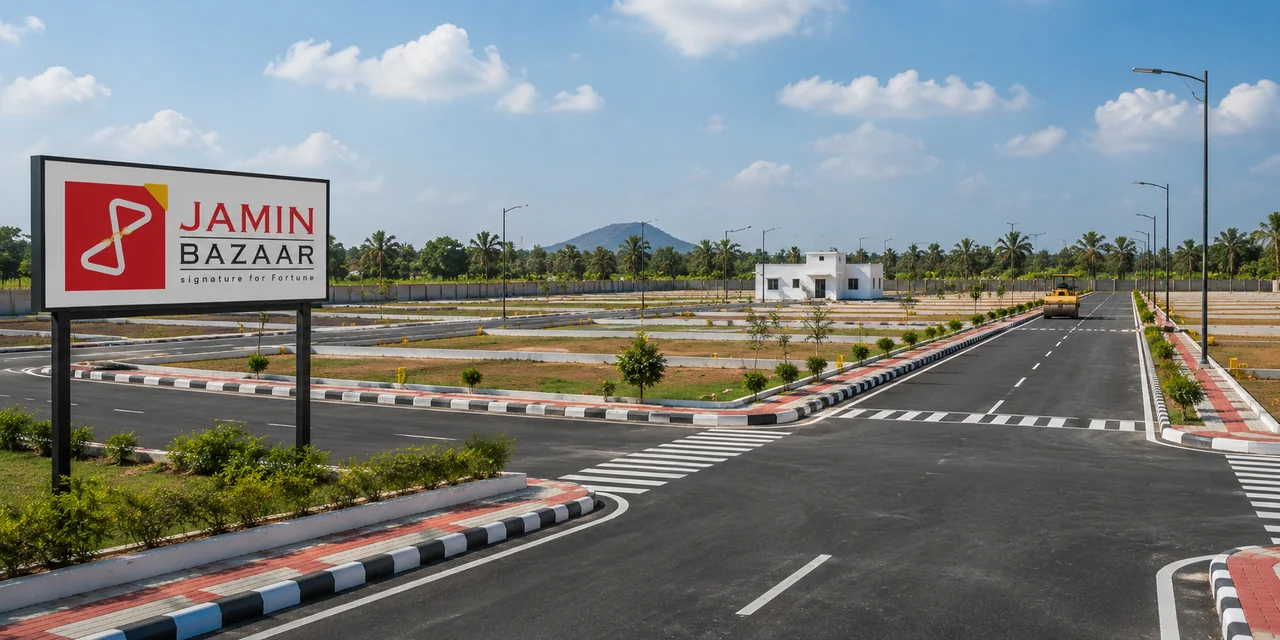
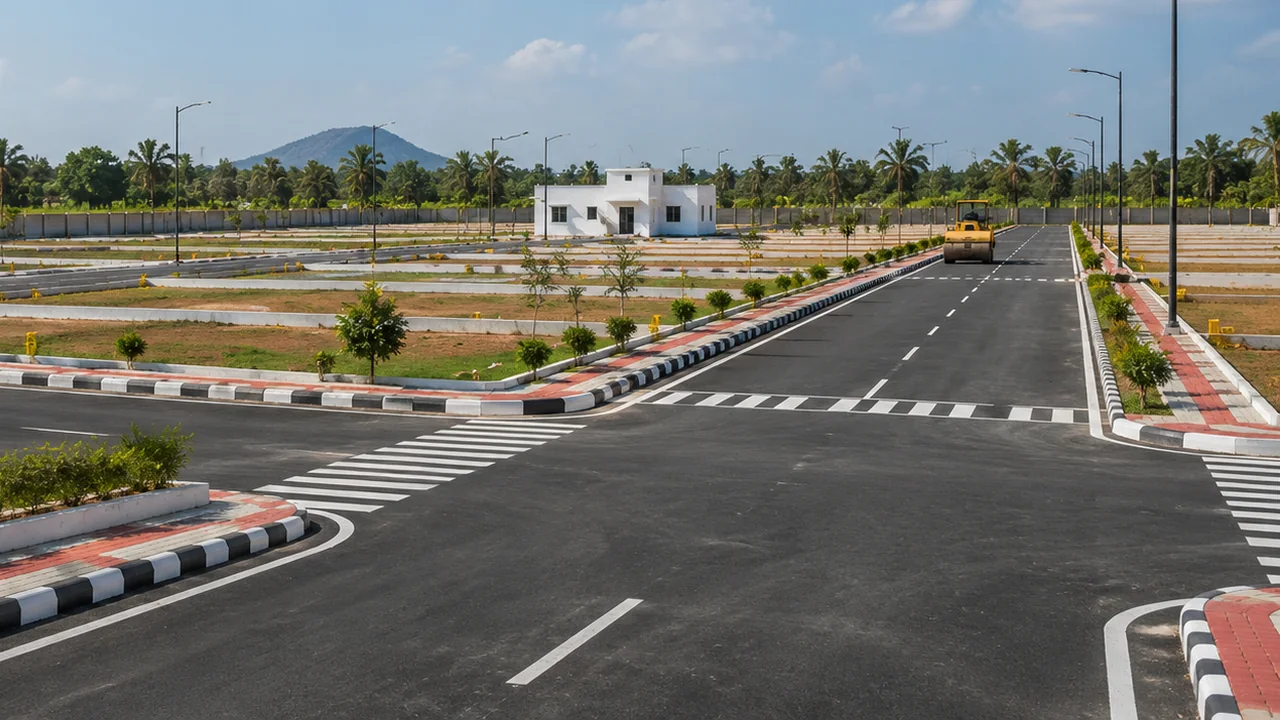
Trim hero-31's board — the sheer plate had been hiding it
Making the copy plate see-through exposed a defect the opaque plate had been
covering: hero-31's JAMIN BAZAAR board ghosted straight through the headline,
"AMIN BAZAAR" reading across "Ongoing Jamin". Nothing about the picture changed
— a plate stopped concealing it.

hero-31 is now cut at source x 526 and re-squared to 16/9 (1248x702, exported
768 / 1280), the same treatment hero-33 already had. Its board measures out to
x 498, NOT the 470 first recorded, so a cut at hero-33's 494 would have left a
4px seam — measured this time rather than eyeballed.

Two rules recorded on the phase page and in hero/README.md:

  - If a board sits more than ~400px into a 1774-wide frame, artPosition alone
    cannot remove it. Trim the source.
  - A plate that HIDES something is not the same as a frame that is CLEAN.
    Before lowering any plate's alpha, look at what that plate was covering —
    anything relying on plate opacity to conceal artwork breaks the day the
    plate goes transparent.

diff --git a/src/app/projects/[phase]/page.tsx b/src/app/projects/[phase]/page.tsx
@@ -93,24 +93,32 @@ export default async function PhasePage({ params }: PageProps<"/projects/[phase]
    * at a negative offset. There is no `artPosition` value that both keeps the
    * board and leaves it solid.
    *
-   * ⚠ hero-33 IS TRIMMED, and the reason is worth keeping because the first
-   * attempt was wrong. Its board sits further into the frame (source x 267–484
-   * rather than 45–470), and the crop window is only 1366px wide, so even a
-   * full right anchor starts at x 409 — always short of 484. A 75px sliver of
-   * the board's dark-framed edge survived every anchor value. I reasoned it
-   * would dissolve, since it lands 5.5% across a box whose fade runs to 22%.
-   * It did not: the mask is already about a quarter opaque there, and a
-   * high-contrast dark frame on white reads clearly through that. On screen it
-   * looked like a sign sliced in half.
+   * 🚨 SO BOTH FRAMES ARE TRIMMED, and it took two goes to learn why the anchor
+   * is never enough on its own.
    *
-   * So hero-33's renditions are cut at source x 494 and the whole board is
-   * gone. That is the hero-22 precedent applied for a NEW reason — not "a
-   * second wordmark duplicates the header" but "the geometry cannot crop it
-   * cleanly". The trim also re-squares the frame to 16/9, which keeps the
-   * phone band's `object-contain` from letterboxing.
+   * hero-33 first: its board sits at source x 267–484, and the crop window is
+   * only 1366px wide, so even a full right anchor starts at x 409 — always
+   * short of 484. A 75px sliver of the board's dark-framed edge survived every
+   * anchor value. I reasoned it would dissolve, since it lands 5.5% across a
+   * box whose fade runs to 22%. It did not: the mask is already about a quarter
+   * opaque there, and a high-contrast dark frame on white reads clearly through
+   * it. On screen it was a sign sliced in half. Cut at source x 494.
    *
-   * The rule for the next swap: if the board sits more than about 400px into a
-   * 1774-wide frame, `artPosition` alone CANNOT remove it — trim the source.
+   * hero-31 second, and this one is the sharper lesson. Its board DID sit far
+   * enough left to be cropped, so it shipped untrimmed — and looked correct,
+   * because the copy plate was opaque and simply covered it. The moment that
+   * plate went sheer the board ghosted through the headline: "AMIN BAZAAR"
+   * reading straight across "Ongoing Jamin". Nothing about the picture changed;
+   * a plate stopped hiding it. Cut at source x 526 (its board measures out to
+   * 498, not the 470 first assumed — measure, do not eyeball).
+   *
+   * Two rules out of it. If a board sits more than ~400px into a 1774-wide
+   * frame, `artPosition` alone CANNOT remove it. And a plate that hides
+   * something is not the same as a frame that is clean — anything relying on
+   * plate opacity to cover artwork breaks the day the plate goes transparent.
+   *
+   * Both trims also re-square the frames to 16/9, which keeps the phone band's
+   * `object-contain` from letterboxing.
    *
    * So the board is cropped out on desktop and the frame shows what the page is
    * actually about — formed roads, kerbs, street lighting, the hills behind.

diff --git a/src/components/PageHero.tsx b/src/components/PageHero.tsx
@@ -76,7 +76,12 @@ const TOP_WIDTH: Record<HeroArt, number> = {
      why they ship with `artPosition="right"` — see the note on the phase page.
      They are still brand imagery under the standing rule: `alt=""`,
      `aria-hidden`, and never a caption naming a development. */
-  31: 1774,
+  /* ⚠ 1280, not 1774: hero-31 is TRIMMED, cut at source x 526. It shipped
+     untrimmed while the copy plate was opaque, which hid the board behind it —
+     the moment the plate went sheer the board ghosted straight through the
+     headline. Anchoring right was never enough on its own. Same treatment and
+     same native width as hero-33 so the two behave identically. */
+  31: 1280,
   /* ⚠ 32 is UNUSED — the owner replaced it with 33 the same afternoon, before
      it had been live an hour. Kept in the register rather than deleted because
      it is a perfectly good frame of an earlier stage, and /projects/future is

diff --git a/public/hero/README.md b/public/hero/README.md
@@ -730,7 +730,9 @@ WebP (212/129/52 KB and 219/134/55 KB).
 
 - **hero-31** — formed asphalt roads with lane markings, kerbs, street lighting,
   a completed building and a roller still working. Reads as "under development
-  and selling now", which is what /projects/ongoing says.
+  and selling now", which is what /projects/ongoing says. **TRIMMED** at source
+  x 526 -> 1248x702, exported 768 / 1280 (62 / 140 KB). See the warning below:
+  it shipped untrimmed and only looked right because the copy plate was opaque.
 - **hero-32** — red earth, plots demarcated and kerbed, roads laid, the thatched
   site office, hills behind.
 
@@ -800,3 +802,21 @@ cleanly". Trimming also restored 16/9, which keeps the phone band's
 THE RULE FOR THE NEXT SWAP: if a baked-in board sits more than about 400px into
 a 1774-wide frame, `artPosition` alone cannot remove it. Trim the source, and
 check the result on screen rather than trusting a percentage against the fade.
+
+
+## The plate-opacity trap (2026-08-12, learned the hard way on hero-31)
+
+hero-31 shipped UNTRIMMED and looked correct: its board sat far enough left that
+`artPosition="right"` cropped most of it, and whatever remained was hidden
+behind the `paper` hero's opaque `gilt-light` copy plate. The moment that plate
+was made see-through, the board ghosted through the headline - "AMIN BAZAAR"
+reading straight across "Ongoing Jamin". Nothing about the picture changed; a
+plate stopped covering it.
+
+THE RULE: a plate that HIDES something is not the same as a frame that is
+CLEAN. Before lowering any plate's alpha, look at what the plate was covering.
+Anything relying on plate opacity to conceal artwork - a baked wordmark, a
+caption, a busy corner - breaks the day that plate goes transparent.
+
+Also: measure the board, do not eyeball it. hero-31's was first noted as ending
+at x 470; it actually ends at 498, and a cut at 494 would have left a 4px seam.
